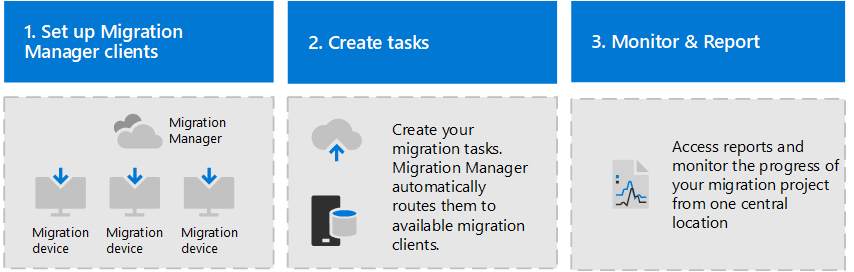
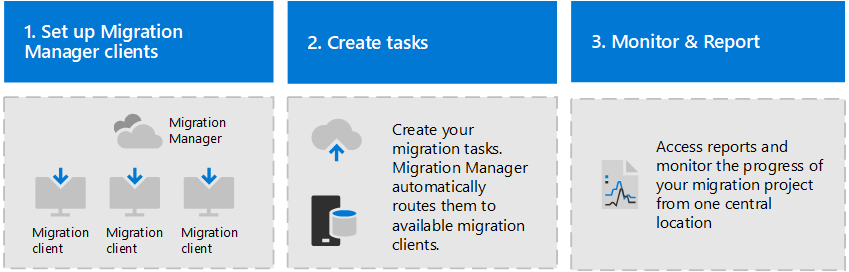
formatting
edits

diff --git a/migration/mo-get-started.md b/migration/mo-get-started.md
@@ -1,5 +1,5 @@
 ---
-title: "Get started with Migration Manager"
+title: "Get started with Migration Manager (Preview)"
 ms.reviewer: 
 ms.author: jhendr
 author: JoanneHendrickson
@@ -16,13 +16,12 @@ search.appverid: MET150
 description: Get started with Migration Manager
 ---
 
-# Get started with the Migration Manager
-
-Migrating content to the cloud is a time and resource intensive process and normally involves scaling up resources to accommodate the large volume of content that you are moving. This comes at a high operational cost of individually managing each server and the migrations tasks that are running on it. Plus you aren't able to automatically load balance your jobs, or view at a glance the progress and status of your migration tasks across all your devices.
+# Get started with the Migration Manager (preview)
+Migrating content to the cloud is a time and resource intensive process and normally involves scaling up resources to accommodate the large volume of content that you are moving. This comes at a high operational cost of individually managing each migration computer and the migrations tasks that are running on it. Plus you aren't able to automatically load balance your jobs, or view at a glance the progress and status of your migration tasks across all your computers.
 
 Migration Manager answers those challenges by providing you a centralized way of connecting servers, creating tasks, and automatically load balancing your migration tasks.  
 
-Located in the SharePoint Admin Center, the Migration Manager guides you through the setup of your devices and the creation of your tasks.  You can specify global or task specific settings, view all-up task progress, and download summary and detailed reports.
+Located in the modern SharePoint Admin Center, the Migration Manager guides you through the setup of your clients and the creation of your tasks.  You can specify global or task level settings, view all-up task progress, and download aggregated summary and task-level reports.
 
 ### How does it work? 
 
@@ -30,9 +29,9 @@ It works in three simple steps:
 
 ![Set up migration clients](media/mm-flow-3box.png)
 
-- **Setup migration clients.** Connect your computer or virtual machine to the SharePoint tenant where you want to migrate content
+- **Setup migration clients.** Download and install a setup file on each computer or virtual machine you want to connect to Migration Manager.
 
-- **Create tasks & mgirate.** Create a task by entering the URL of the file share that you want to migrate (your source) and URL of the SharePoint site to where you are migrating (your destination). Migration Manager does the rest. However many tasks you create, Migration Manager will assign it to the next available client.
+- **Create tasks & migrate.** Create a task by entering the URL of the network file share that you want to migrate (your source) and the URL of the SharePoint site where you are migrating your content (your destination). Migration Manager does the rest. However many tasks you create, Migration Manager will automatically distribute the tasks across all the connected clients.
 
 - **Monitor and report.** Monitor progress across all clients and access reports from one central location. 
 
